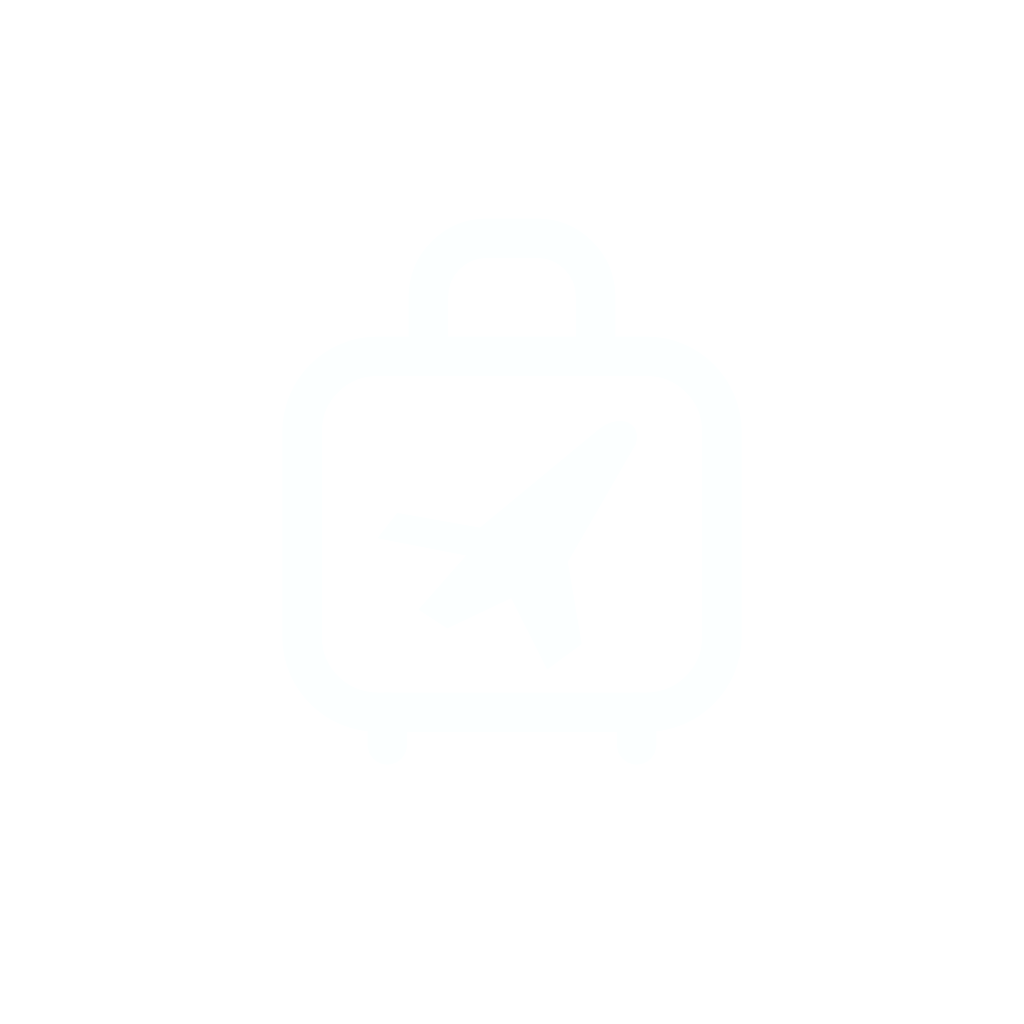
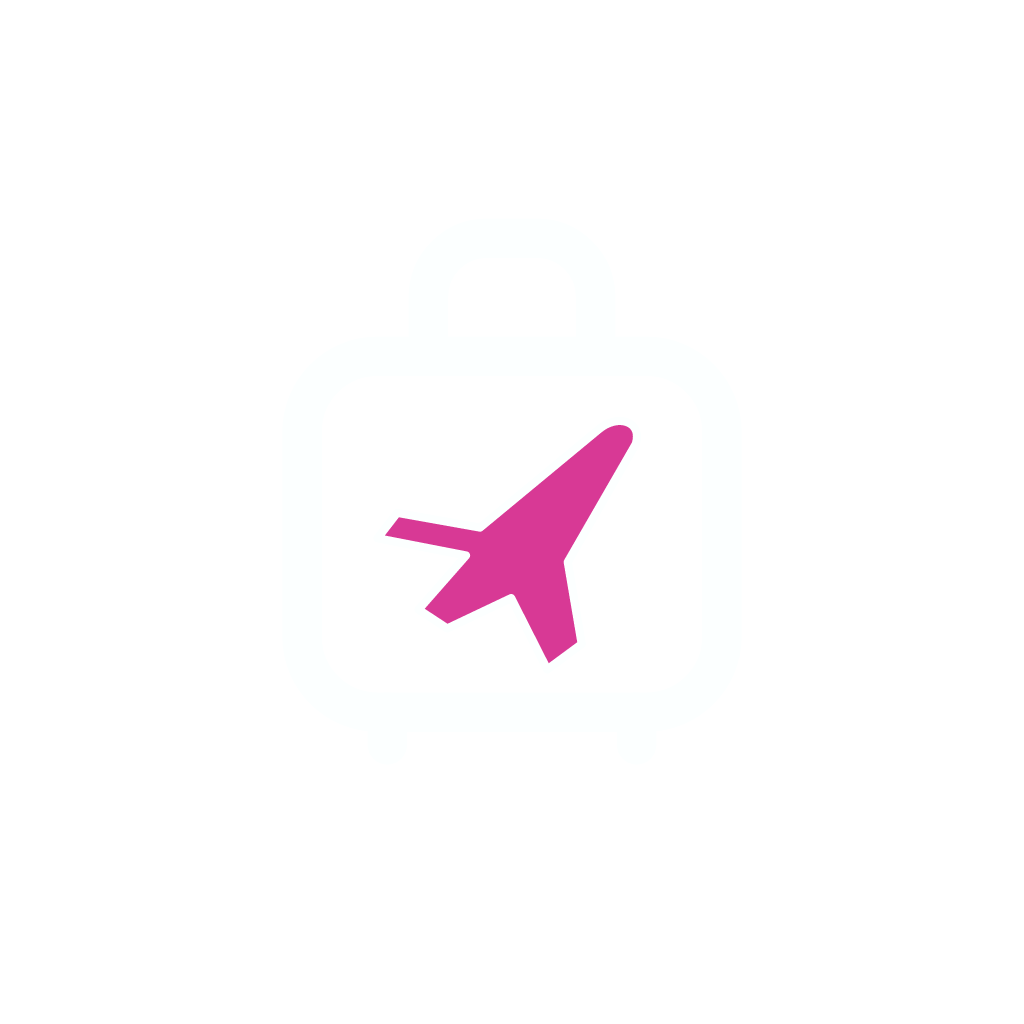
chore: finalize Tripora launcher branding and install record

Changed region(s): [[0.375, 0.4062, 0.625, 0.6562]]

diff --git a/docs/HOSTED_BETA_2026-10-31.md b/docs/HOSTED_BETA_2026-10-31.md
@@ -25,6 +25,8 @@ Jednokratni nastavak nakon **17 minuta bez naših API zahtjeva** prolazi: 17:36:
 
 ## Android paket za internet
 
[1 lines of base64/hex data omitted]
+
 Izrađen je zaseban **Tripora Beta 11** APK: `local.tripora.beta`, versionCode 11 / versionName 0.1.0-beta11, release varijanta s postojećim razvojnim potpisom (privatni QA paket, nije izdanje za trgovinu). Izlaz je ignorirani `local-data/hosted-beta/Tripora-Beta-11.apk`. Drugi application ID omogućuje instalaciju uz stari `local.tripora.qa`; ne prepisuje njegovu lokalnu pohranu. Nema automatske migracije putovanja ili računa.
 
[1 lines of base64/hex data omitted]
@@ -35,10 +37,10 @@ Prethodni QA10 APK i njegova native konfiguracija arhivirani su pod ignoriranim 
 
 ## Preostali prihvat
 
-Za ručni prihvat instalirati `Tripora-Beta-11.apk` kao zasebnu aplikaciju, uključiti internet i registrirati novi hosted račun vlastitim emailom/lozinkom. Lokalni QA račun nije cloud račun, čak i ako koristi isti email. Potvrditi primljeni email, stvoriti probno putovanje i u Mjestima odabrati Pronađi mjesto uz naziv i grad, potvrditi rezultat te provjeriti pin na karti. Zatim provjeriti pregled spremljenog popisa bez interneta. Nema unaprijed zadanih korisničkih lozinki.
+Za ručni prihvat otvoriti sada instaliranu aplikaciju **Tripora**, uključiti internet i registrirati novi hosted račun vlastitim emailom/lozinkom. Lokalni QA račun nije cloud račun, čak i ako koristi isti email. Potvrditi primljeni email, stvoriti probno putovanje i u Mjestima odabrati Pronađi mjesto uz naziv i grad, potvrditi rezultat te provjeriti pin na karti. Zatim provjeriti pregled spremljenog popisa bez interneta. Nema unaprijed zadanih korisničkih lozinki.
 
 - Potvrditi izmjereni cold start nakon neaktivnosti i zasebno višednevni nastavak unutar Free kvota.
-- Instalirati pripremljeni mobilni beta APK i fizički provjeriti novu kartu, prijavu i sinkronizaciju. iPhone ostaje odgođen.
+- Fizički provjeriti novu kartu, prijavu i sinkronizaciju u instaliranoj Tripori 12. iPhone ostaje odgođen.
 - Stvarna registracija/potvrda/reset, sesije nakon restarta i dva klijenta s koordinatama, konfliktima i uklanjanjem člana.
 - Zajednički hosted backup/povrat Neon baze, privatnih fotografija i certifikata; lokalni backup nije cloud backup.
 
